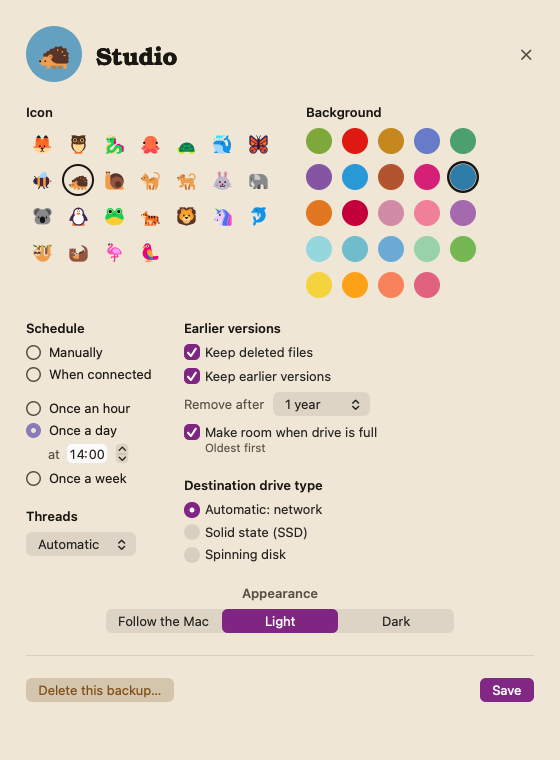
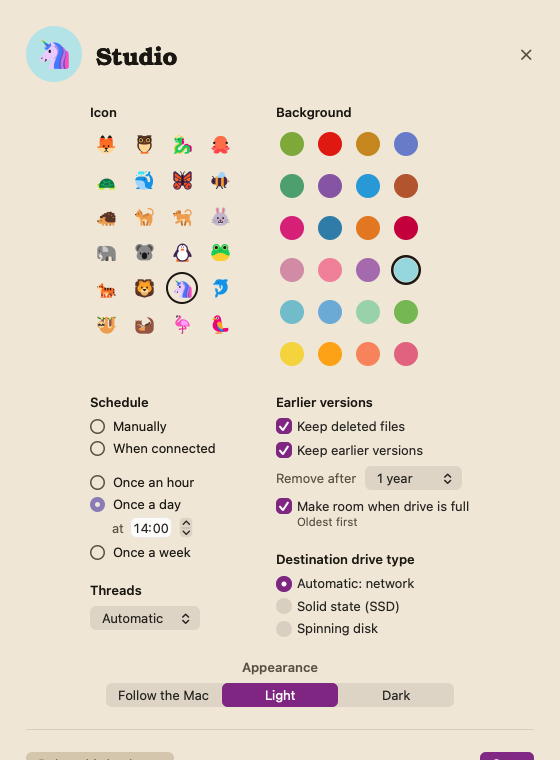
Archivist 0.0.15 — Smallest window shows exactly four sources; titles line up; settings grids tidied.

diff --git a/Archivist/JobView.swift b/Archivist/JobView.swift
@@ -32,10 +32,12 @@ struct JobView: View {
 
     var body: some View {
         VStack(spacing: 0) {
-            HStack(spacing: 0) {
+            HStack(alignment: .top, spacing: 0) {   // top: a tall column never pushes its title up
                 SourcesPane(view: self)
                 DestinationPane(view: self)
                     .frame(width: 280)
+                    .frame(maxHeight: .infinity, alignment: .top).clipped()   // never taller than Sources: the row ends at the bottom bar
+                    
             }
             BottomBar(view: self)
         }
@@ -48,7 +50,8 @@ struct JobView: View {
                             .contentShape(Rectangle())
                             .onTapGesture { showingSettings = false }   // a click outside closes it
                         SettingsSheet(view: self, close: { showingSettings = false })
-                            .frame(width: min(560, g.size.width - 32), height: min(700, g.size.height - 32))   // never hangs past the window
+                            .fixedSize(horizontal: true, vertical: false)   // as wide as its two columns
+                            .frame(height: min(700, g.size.height - 32))   // never hangs past the window
                             .clipShape(RoundedRectangle(cornerRadius: 12))
                             .shadow(color: .black.opacity(0.25), radius: 20, y: 6)
                     }
@@ -255,17 +258,11 @@ struct SourcesPane: View {
                 DropHint(text: "Drop folders or a drive here", action: view.chooseFolders)
                     .frame(maxWidth: .infinity, maxHeight: .infinity)
             } else {
-                GeometryReader { g in
-                    // More rows than fit: stretch them a little so a whole number fills the view and the
-                    // last one's line meets the bottom bar (no sliver of a gap above it).
-                    let natural: CGFloat = 64, fit = max(1, (g.size.height / natural).rounded(.down))
-                    let rowH: CGFloat? = CGFloat(job.sources.count) > fit ? g.size.height / fit : nil
-                    ThinScroll {
-                        VStack(spacing: 0) {
-                            ForEach(view.sortedSources) { s in
-                                SourceRow(view: view, source: s).frame(height: rowH.map { $0 - 1 })
-                                Rectangle().fill(Palette.rule).frame(height: 1).padding(.leading, 76)
-                            }
+                ThinScroll {
+                    VStack(spacing: 0) {
+                        ForEach(view.sortedSources) { s in
+                            SourceRow(view: view, source: s).frame(height: SourceRow.height - 1)
+                            Rectangle().fill(Palette.rule).frame(height: 1).padding(.leading, 76)
                         }
                     }
                 }
@@ -283,6 +280,8 @@ struct SourcesPane: View {
 }
 
 struct SourceRow: View {
+    /// One row with its line: the smallest window is sized to hold exactly four.
+    static let height: CGFloat = 64
     let view: JobView
     let source: Source
 
@@ -378,7 +377,7 @@ struct DestinationPane: View {
     let view: JobView
     @State private var over = false
     @State private var height: CGFloat = 600
-    private var compact: Bool { height < 420 }   // a short window: smaller picture, no drive-kind line, tighter gaps
+    private var compact: Bool { height < 470 }   // a short window: smaller picture, no drive-kind line, tighter gaps
 
     var body: some View {
         let job = view.job
@@ -774,9 +773,11 @@ struct SettingsSheet: View {
                         .buttonStyle(.plain).foregroundStyle(Palette.soft).help("Close")
                 }
 
-                HStack(alignment: .top, spacing: 32) {
+                // Two columns sized by Schedule and Earlier versions; Icon and Background sit over them.
+                Grid(alignment: .topLeading, horizontalSpacing: 40, verticalSpacing: 24) {
+                    GridRow {
                     section("Icon") {
-                        LazyVGrid(columns: Array(repeating: GridItem(.fixed(32), spacing: 4, alignment: .leading), count: 7),
+                        LazyVGrid(columns: Array(repeating: GridItem(.fixed(32), spacing: 6, alignment: .leading), count: 4),
                                   alignment: .leading, spacing: 4) {
                             ForEach(Job.icons, id: \.self) { n in
                                 Button { view.edit { $0.icon = n; $0.lookChosen = true } } label: {
@@ -788,20 +789,19 @@ struct SettingsSheet: View {
                         .fixedSize()
                     }
                     section("Background") {
-                        LazyVGrid(columns: Array(repeating: GridItem(.fixed(26), spacing: 10, alignment: .leading), count: 5),
+                        LazyVGrid(columns: Array(repeating: GridItem(.fixed(32), spacing: 6, alignment: .leading), count: 4),
                                   alignment: .leading, spacing: 10) {
                             ForEach(Nippon.colors, id: \.hex) { c in
                                 Button { view.edit { $0.color = c.hex; $0.lookChosen = true } } label: {
-                                    Circle().fill(Nippon.color(c.hex)).frame(width: 26, height: 26)
-                                        .overlay(Circle().strokeBorder(c.hex == job.color ? Palette.ink : .clear, lineWidth: 2.5).padding(-3))
+                                    Circle().fill(Nippon.color(c.hex)).frame(width: 24, height: 24).frame(width: 32, height: 32)
+                                        .overlay(Circle().strokeBorder(c.hex == job.color ? Palette.ink : .clear, lineWidth: 2.5).padding(1))
                                 }.buttonStyle(.plain).help(c.name)
                             }
                         }
                         .fixedSize()
                     }
-                }
-
-                HStack(alignment: .top, spacing: 32) {
+                    }
+                    GridRow {
                     VStack(alignment: .leading, spacing: 22) {
                         section("Schedule") { ScheduleChooser(view: view) }
                         section("Threads") {
@@ -841,7 +841,9 @@ struct SettingsSheet: View {
                         }
                     }
                     .fixedSize()
+                    }
                 }
+                .frame(maxWidth: .infinity)
 
                 VStack(spacing: 8) {
                     Text("Appearance").font(Typeface.text(13, .semibold)).foregroundStyle(Palette.soft)

diff --git a/Archivist/Job.swift b/Archivist/Job.swift
@@ -83,7 +83,8 @@ struct Job: Codable, Identifiable, Hashable {
 
     /// Fluent emoji a backup can wear (picked at random, changeable in the Destination panel).
     /// Animals for backups (sources wear plants and food).
-    static let icons = ["fox", "owl", "dragon", "octopus", "turtle", "spouting_whale", "butterfly", "honeybee", "hedgehog", "snail",
+    // 24: a 4 × 6 grid in Settings, like the 24 colours. (The snail is the drive-speed "Very slow".)
+    static let icons = ["fox", "owl", "dragon", "octopus", "turtle", "spouting_whale", "butterfly", "honeybee", "hedgehog",
                         "cat", "dog", "rabbit", "elephant", "koala", "penguin", "frog", "tiger", "lion", "unicorn", "dolphin",
                         "sloth", "otter", "flamingo", "parrot"]
 
@@ -149,7 +150,7 @@ struct Job: Codable, Identifiable, Hashable {
         destinationSince = try c.decodeIfPresent(Date.self, forKey: .destinationSince)
         // Backups saved before icons: a steady pick from the id, so it never changes between launches.
         let saved = try c.decodeIfPresent(String.self, forKey: .icon)
-        icon = saved.flatMap { Job.icons.contains($0) ? $0 : nil } ?? Job.icons[Int(id.uuid.0) % Job.icons.count]  // backups are animals now
+        icon = saved.flatMap { Job.icons.contains($0) || $0 == "snail" ? $0 : nil } ?? Job.icons[Int(id.uuid.0) % Job.icons.count]  // backups are animals now
         color = try c.decodeIfPresent(String.self, forKey: .color) ?? Nippon.colors[Int(id.uuid.2) % Nippon.colors.count].hex
         lookChosen = try c.decodeIfPresent(Bool.self, forKey: .lookChosen) ?? false
         if let new = try c.decodeIfPresent([Source].self, forKey: .sources) {

diff --git a/Archivist/ArchivistApp.swift b/Archivist/ArchivistApp.swift
@@ -23,7 +23,7 @@ struct ArchivistApp: App {
             RootView()
                 .environment(store)
                 .modifier(AppearanceChoice())
-                .frame(width: 860).frame(minHeight: 440)   // width fixed: wider adds nothing; taller shows more sources
+                .frame(width: 860).frame(minHeight: 427)   // width fixed; smallest holds exactly four source rows (measured: the window adds 32 for its title bar)
         }
         .windowStyle(.hiddenTitleBar)
         .defaultSize(width: 860, height: 580)
